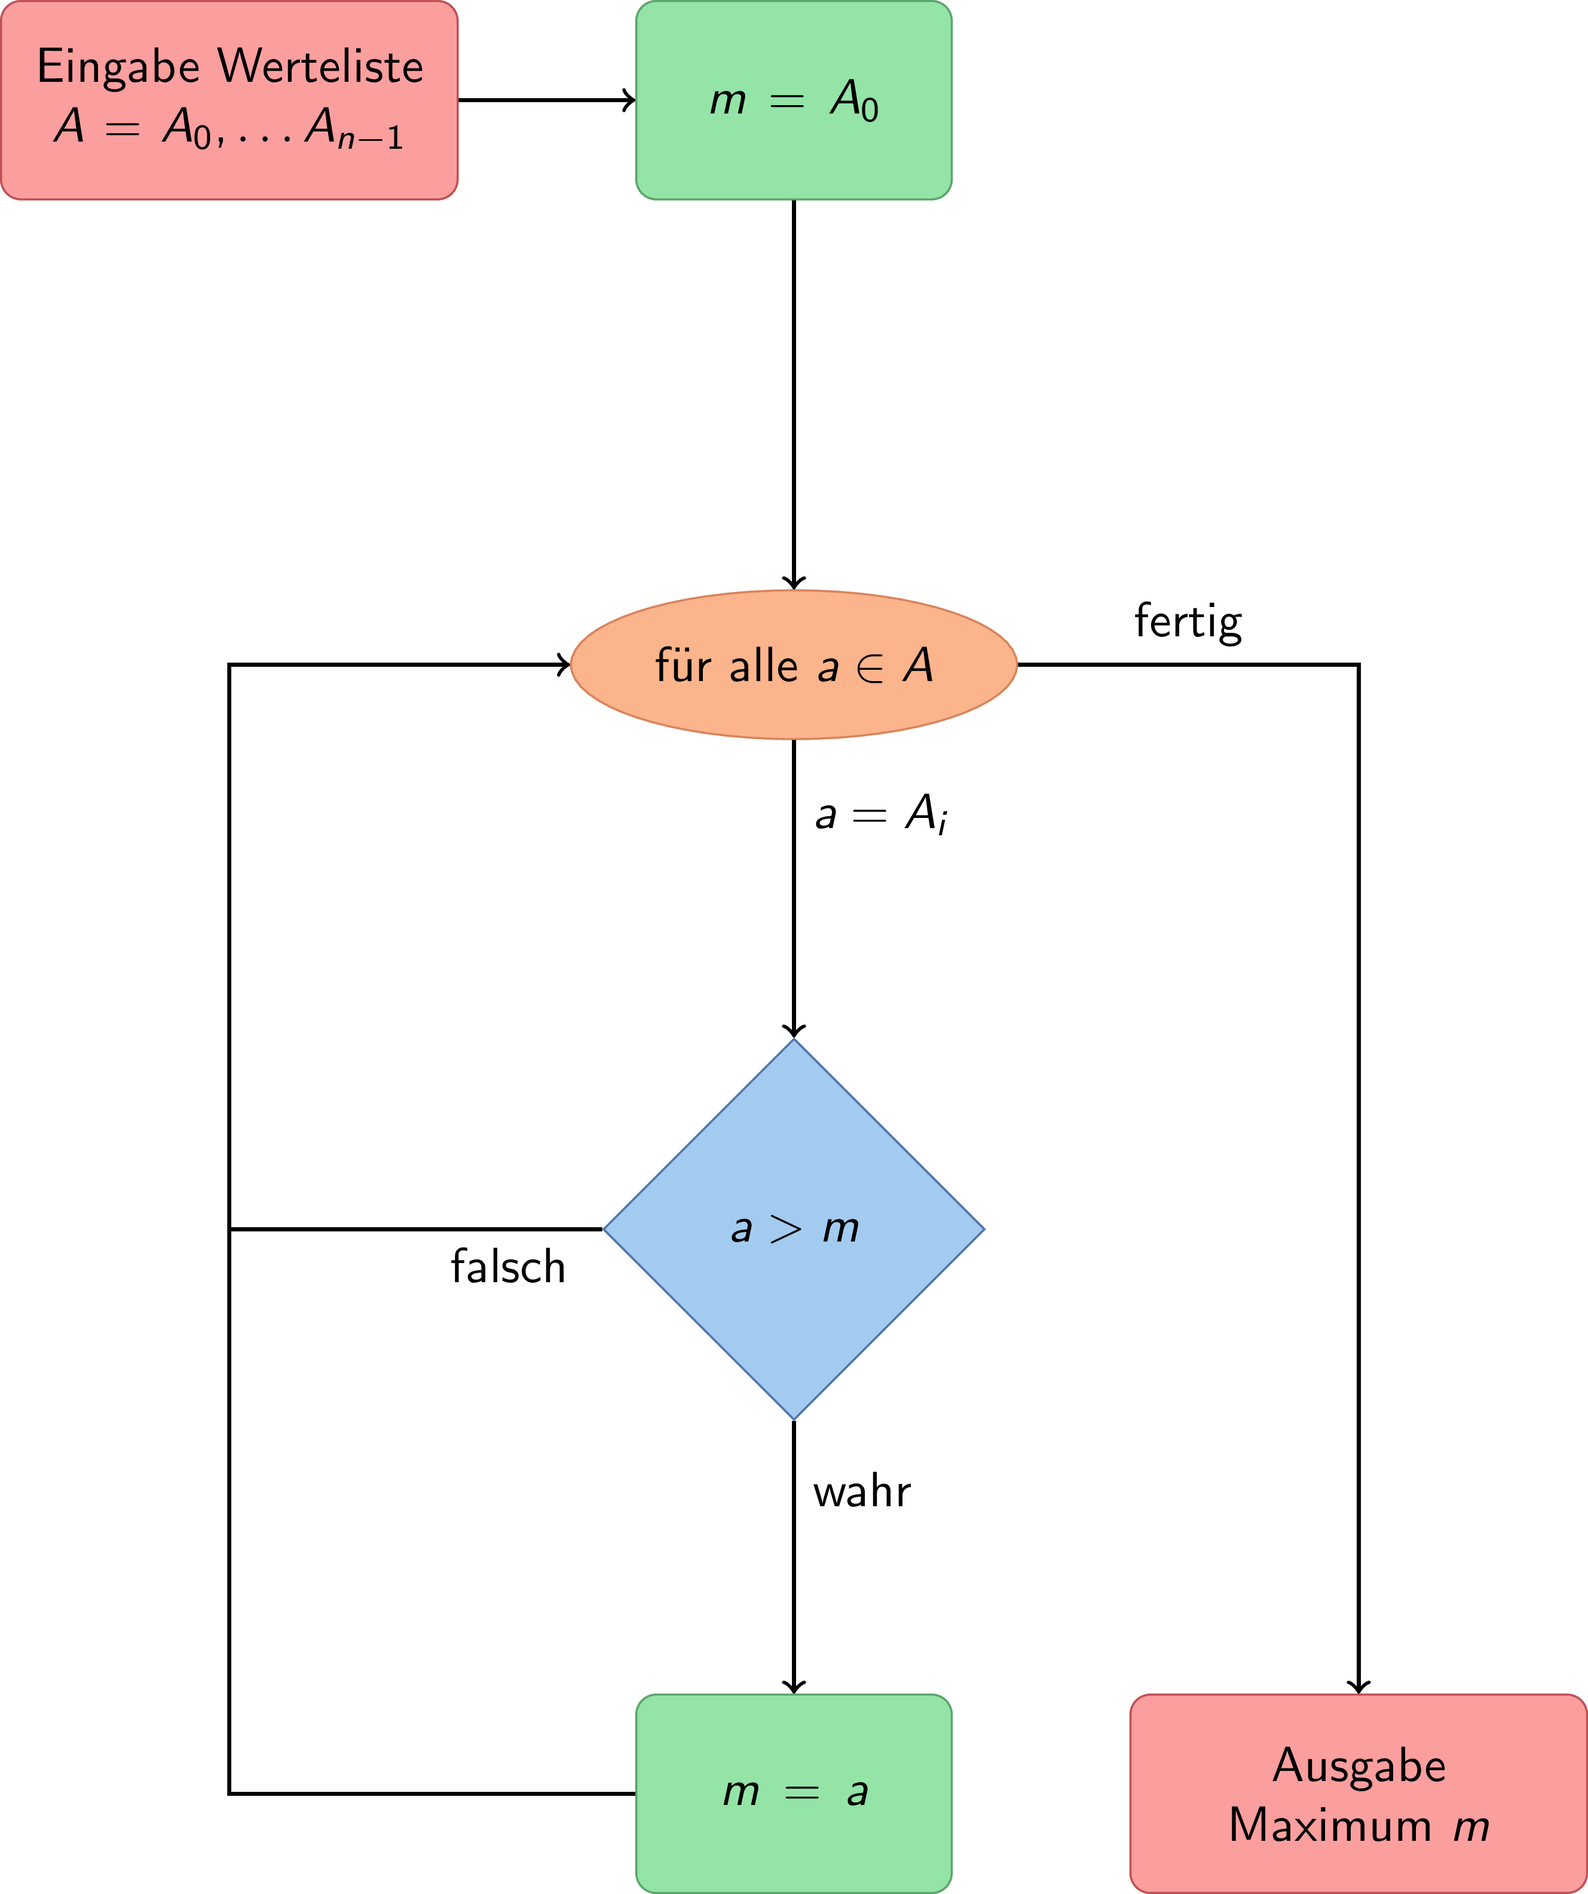
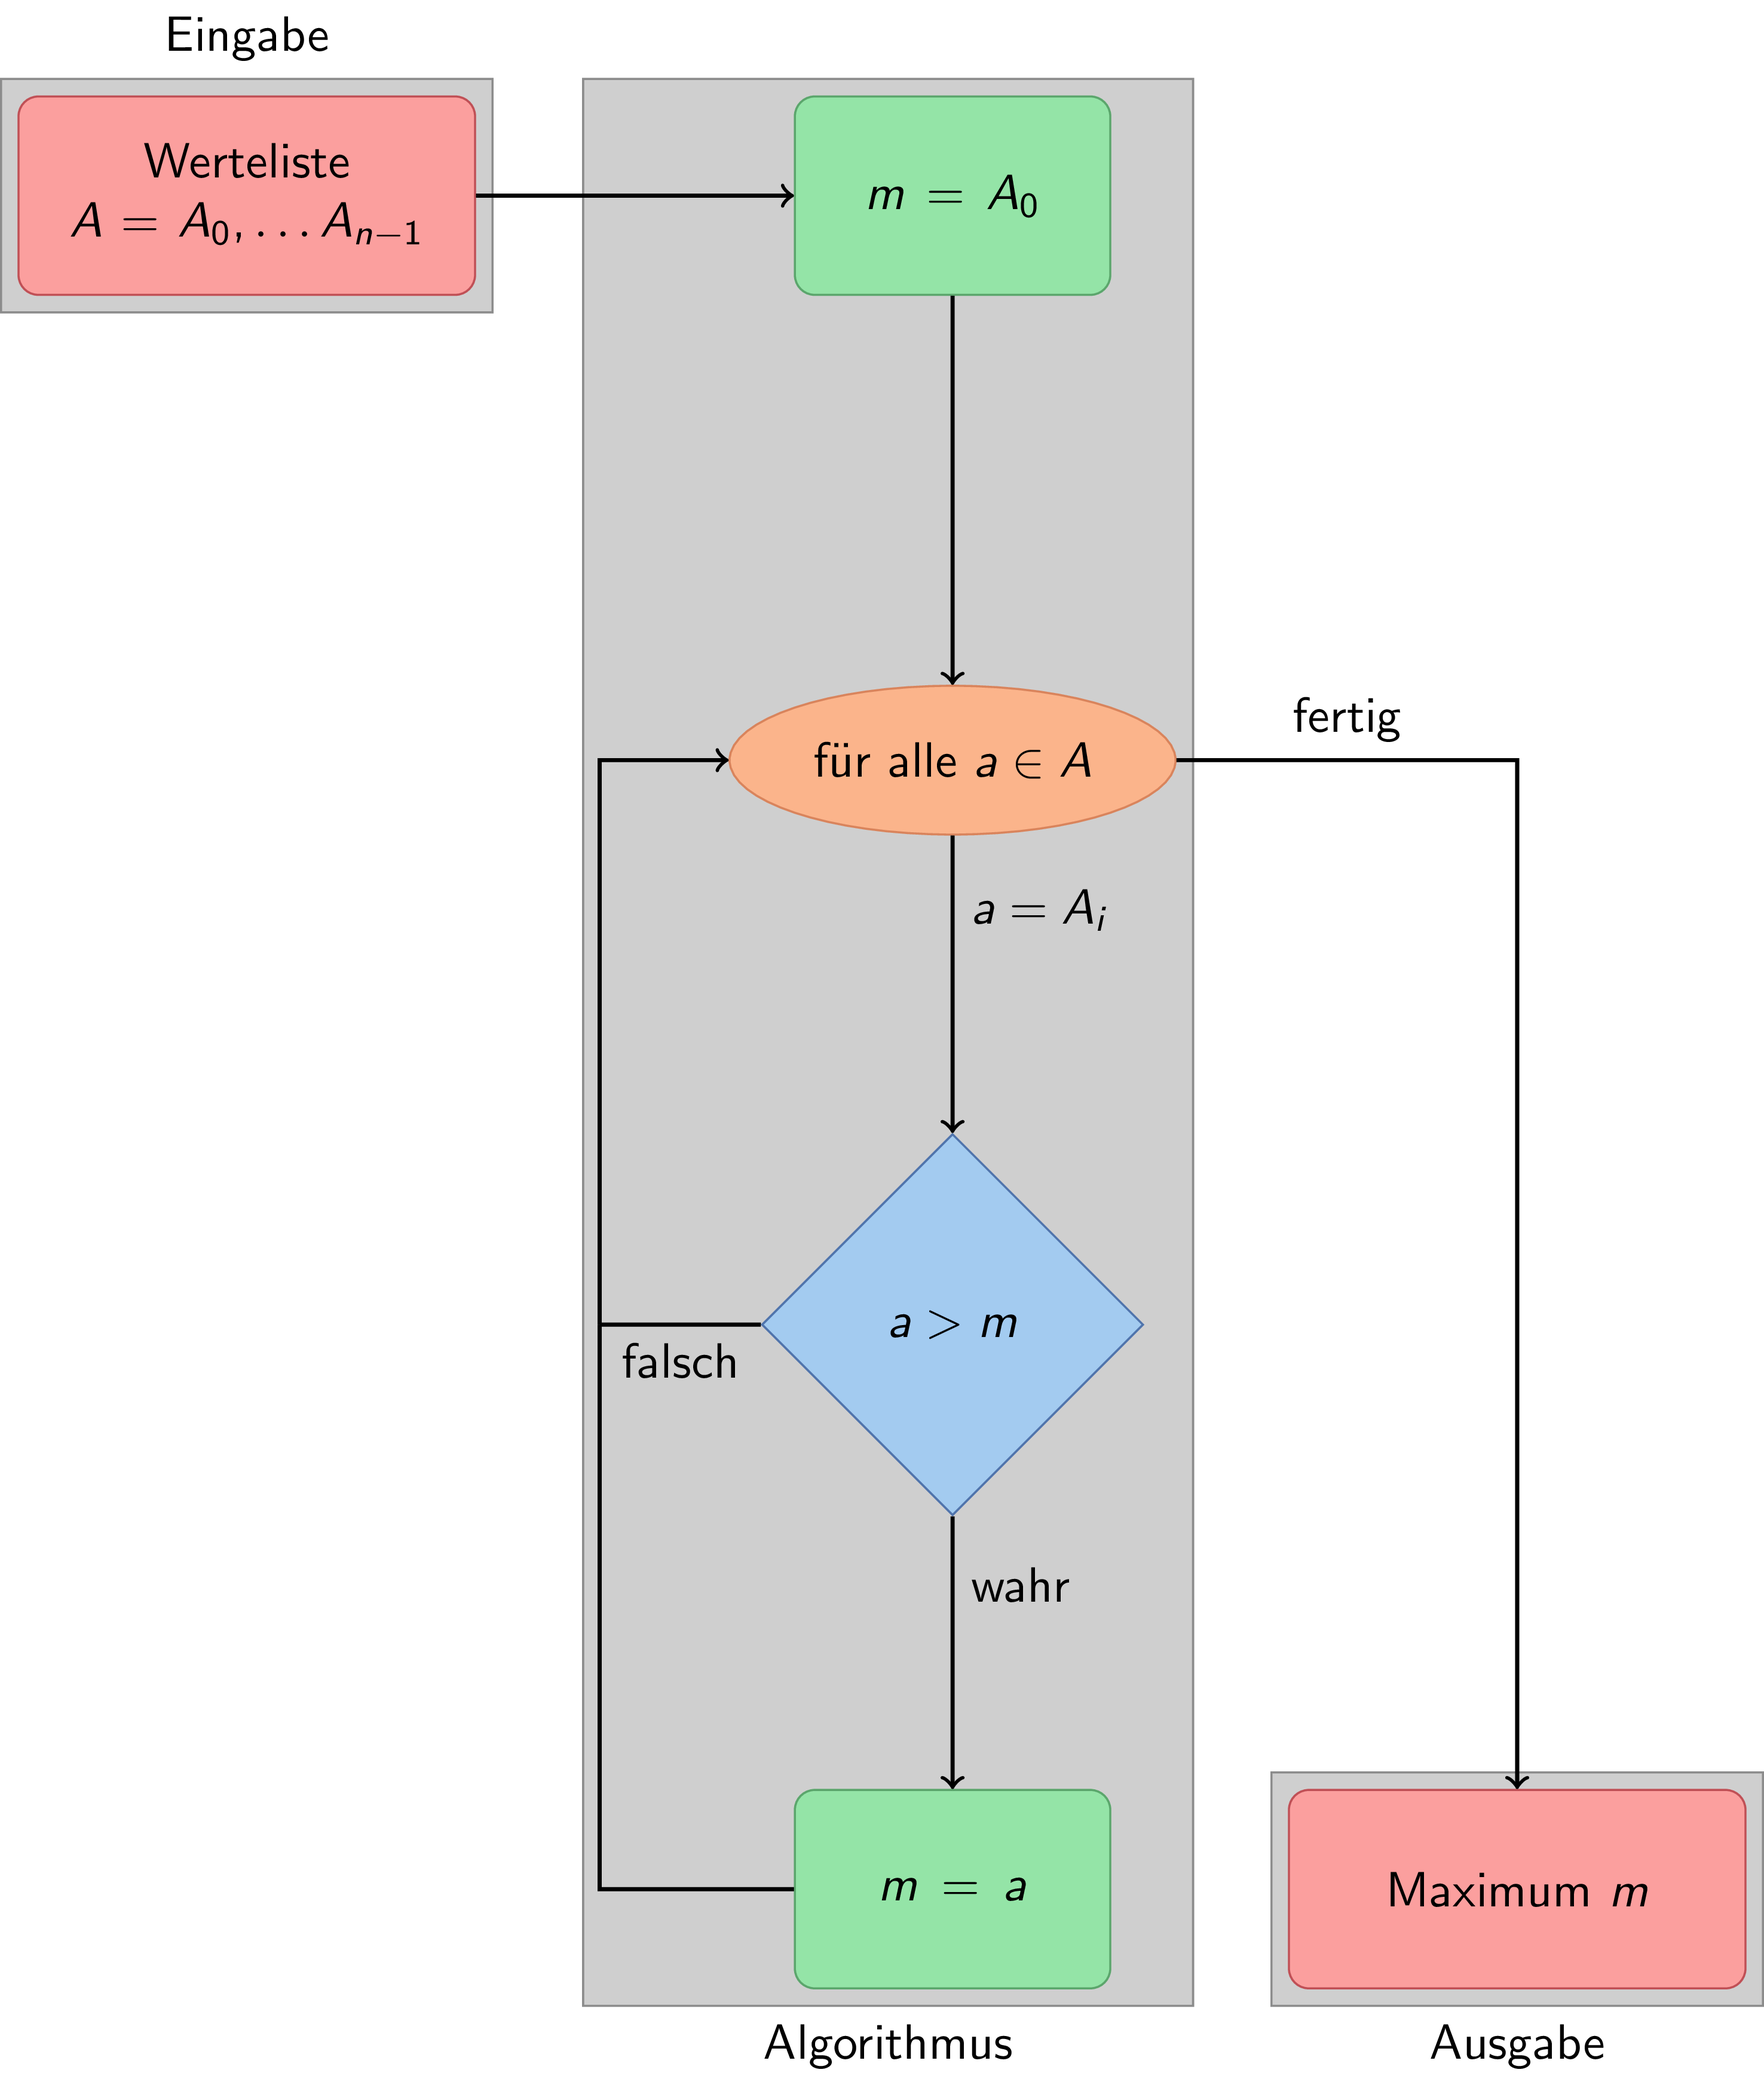
adoptec flow chart

diff --git a/Content/Script/01_computer/bilder/alg_findmax.tex b/Content/Script/01_computer/bilder/alg_findmax.tex
@@ -1,5 +1,5 @@
 \documentclass[convert={density=600,outext=.png}]{standalone}
-\usepackage{tikz,pgfplots}
+\usepackage{tikz, pgfplots}
 \usepackage{xcolor}
 
 \renewcommand{\familydefault}{\sfdefault}
@@ -7,47 +7,39 @@
 \usepackage{sansmath} % sans serif math                                                                                                                               
 \sansmath % if you use it globaly                                                                                                                           
 
-\usetikzlibrary{decorations.pathreplacing, shapes,arrows}
+\usetikzlibrary{shapes, arrows, fit, backgrounds}
 
 \begin{document}
 \begin{tikzpicture}[node distance = 4cm and 6cm, auto]
 
-  \input{my_colors.tex}
+	\input{my_flowchart.tex}
 
-  \tikzstyle{decision} = [diamond, draw, draw=my_blue, fill=my_blue_light, text width=2.5cm, text badly centered, inner sep=0pt]
-  \tikzstyle{block} = [rectangle, draw=my_green, fill=my_green_light, text width=2cm, text centered, rounded corners, minimum height=4em]
-  \tikzstyle{blockio} = [rectangle, draw=my_red, fill=my_red_light, text width=3cm, text centered, rounded corners, minimum height=4em]
-  \tikzstyle{cloud} = [text centered, ellipse, draw=my_orange, fill=my_orange_light, text width=2cm, minimum height=3em]
-  \tikzstyle{line} = [draw, thick]
+	\node [blockio] (eingabe) {Werteliste\\$A=A_0, \dots A_{n-1}$};
+  
+	\node [block, right of=eingabe, node distance=5cm] (init) {$m=A_0$};
+  
+	\node [cloud, below of=init] (loop) {für alle $a\in A$};
+	\node [decision, below of=loop] (check_max) {$a>m$};
+	\node [block, below of=check_max] (set_max) {$m=a$};
 
-  %\tikzstyle{block} = [rectangle, draw, text centered, rounded corners, minimum height=2em]
-  
-%	\tikzstyle{every node}=[font=\fontsize{35}{0}\selectfont]
-%	\tikzstyle{boxes_style}=[draw=border_color,fill=fill_color, line width=1.5mm]
+	\node [blockio, right of=set_max] (ausgabe) {Maximum $m$};
+	\node [coordinate, left of=check_max, node distance=2.5cm] (c1) {};
 
-  \node [blockio] (eingabe) {Eingabe Werteliste\\ $A=A_0, \dots A_{n-1}$};
-  
-  \node [block, right of=eingabe] (init) {$m=A_0$};
-  
-  \node [cloud, below of=init] (loop) {für alle $a\in A$};
-  \node [decision, below of=loop] (check_max) {$a>m$};
-  \node [block, below of=check_max] (set_max) {$m=a$};
-  
-  \node [blockio, right of=set_max] (ausgabe) {Ausgabe\\ Maximum $m$};
-  \node [coordinate, left of=check_max] (c1) {};
-  
-% \node [block, draw=my_red, fill=my_red_light, right of=eingabe] (algorithmus) {Algorithmus};
-%  \node [block, draw=my_green, fill=my_green_light, right of=algorithmus] (ausgabe) {Ausgabe};
+	\begin{scope}[on background layer]
+		\node[back_box, fit=(init) (loop) (check_max) (set_max) (c1), label=below:Algorithmus] (algo_box) {};
+		\node[back_box, fit=(eingabe), label=above:Eingabe] (input) {};
+		\node[back_box, fit=(ausgabe), label=below:Ausgabe] (output) {};
+	\end{scope}
 
- \path [line, ->] (eingabe) -- (init);
- \path [line, ->] (init) -- (loop);  
- \path [line, ->] (loop) -| node [near start] {fertig}  (ausgabe);  
- \path [line, ->] (loop) -- node [near start] {$a=A_i$} (check_max);
- \path [line, ->] (check_max) -- node [near start] {wahr} (set_max);     
-% \path [line, ->] (check_max) -- node [left of=check_max] {B} -- node [near start] {falsch} (loop);      
- \draw [line] (check_max) -- node [near start] {falsch} (c1);
- \draw [line] (set_max) -| (c1);
- \draw [line, ->] (c1) |- (loop);
+	\path [line, ->] (eingabe) -- (init);
+	\path [line, ->] (init) -- (loop);  
+	\path [line, ->] (loop) -| node [near start] {fertig}  (ausgabe);  
+	\path [line, ->] (loop) -- node [near start] {$a=A_i$} (check_max);
+	\path [line, ->] (check_max) -- node [near start] {wahr} (set_max);     
+	\draw [line] (check_max) -- node [midway] {falsch} (c1);
+	\draw [line] (set_max) -| (c1);
+	\draw [line, ->] (c1) |- (loop);
+	
 
 \end{tikzpicture}
 \end{document}

diff --git a/Content/Script/01_computer/bilder/my_colors.tex b/Content/Script/01_computer/bilder/my_colors.tex
@@ -1,13 +1,39 @@
 \definecolor{my_blue}{RGB}{80,116,172}
+\definecolor{my_blue_dark}{RGB}{3,33,122}
 \definecolor{my_blue_light}{RGB}{163,203,240}
 
 \definecolor{my_orange}{RGB}{217,132,92}
+\definecolor{my_orange_dark}{RGB}{173,64,35}
 \definecolor{my_orange_light}{RGB}{251,180,139}
 
 \definecolor{my_green}{RGB}{91,166,108}
+\definecolor{my_green_dark}{RGB}{32,112,42}
 \definecolor{my_green_light}{RGB}{148,228,167}
 
 \definecolor{my_red}{RGB}{192,80,86}
+\definecolor{my_red_dark}{RGB}{136,11,17}	
 \definecolor{my_red_light}{RGB}{251,159,158}	
 
+\definecolor{my_violet}{RGB}{128,116,174}
+\definecolor{my_violet_dark}{RGB}{87,34,108}	
+\definecolor{my_violet_light}{RGB}{207,189,250}
+
+\definecolor{my_brown}{RGB}{145,120,100}
+\definecolor{my_brown_dark}{RGB}{159,187,159}	
+\definecolor{my_brown_light}{RGB}{87,47,21}
+
+\definecolor{my_pink}{RGB}{215,141,192}
+\definecolor{my_pink_dark}{RGB}{247,177,225}	
+\definecolor{my_pink_light}{RGB}{158,56,127}
+
+\definecolor{my_gray}{RGB}{140,140,140}
 \definecolor{my_gray_dark}{RGB}{60,60,60}
+\definecolor{my_gray_light}{RGB}{207,207,207}
+
+\definecolor{my_yellow}{RGB}{203,184,125}
+\definecolor{my_yellow_dark}{RGB}{255,253,175}	
+\definecolor{my_yellow_light}{RGB}{182,132,48}
+
+\definecolor{my_turkis}{RGB}{106,181,202}
+\definecolor{my_turkis_dark}{RGB}{189,242,240}	
+\definecolor{my_turkis_light}{RGB}{20,99,114}

diff --git a/Content/Script/01_computer/bilder/my_flowchart.tex b/Content/Script/01_computer/bilder/my_flowchart.tex
@@ -1,0 +1,9 @@
+\input{my_colors.tex}
+
+\tikzstyle{decision} = [diamond, draw, draw=my_blue, fill=my_blue_light, text width=2.5cm, text badly centered, inner sep=0pt]
+\tikzstyle{block} = [rectangle, draw=my_green, fill=my_green_light, text width=2cm, text centered, rounded corners, minimum height=4em]
+\tikzstyle{blockio} = [rectangle, draw=my_red, fill=my_red_light, text width=3cm, text centered, rounded corners, minimum height=4em]
+\tikzstyle{cloud} = [text centered, ellipse, draw=my_orange, fill=my_orange_light, text width=2cm, minimum height=3em]
+\tikzstyle{line} = [draw, thick]
+
+\tikzstyle{back_box} = [draw=my_gray, fill=my_gray_light, behind path]
